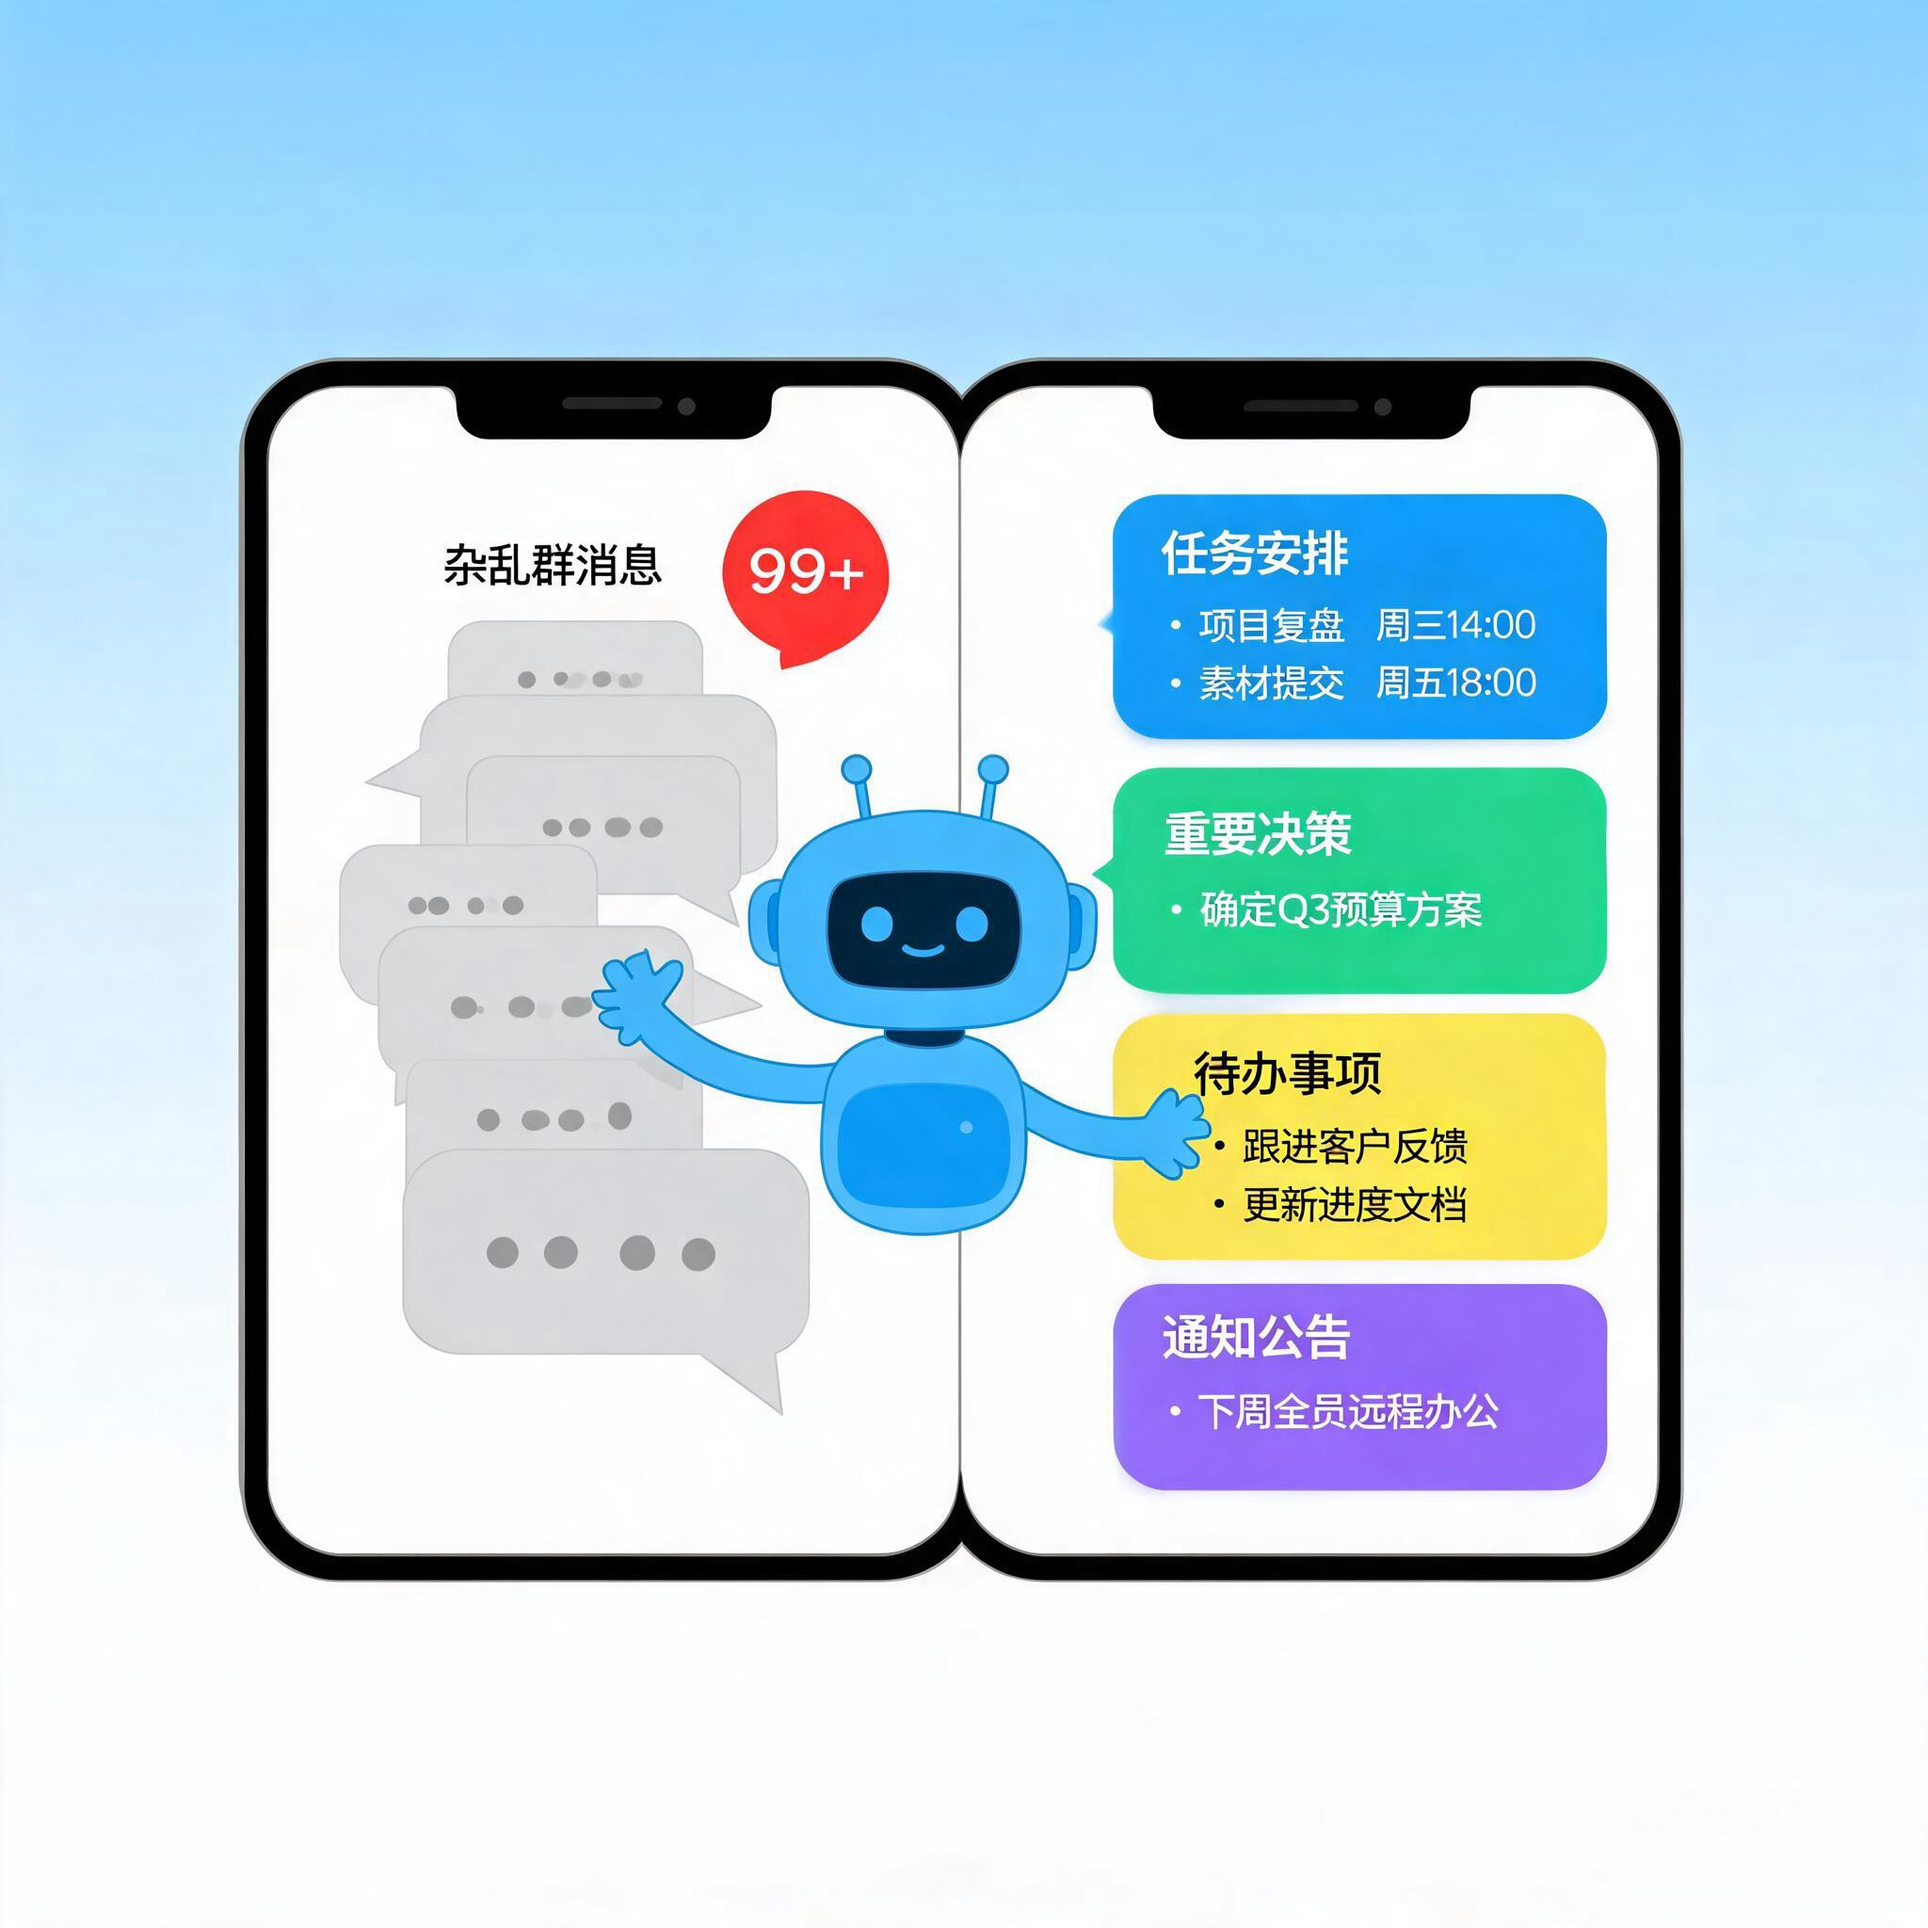
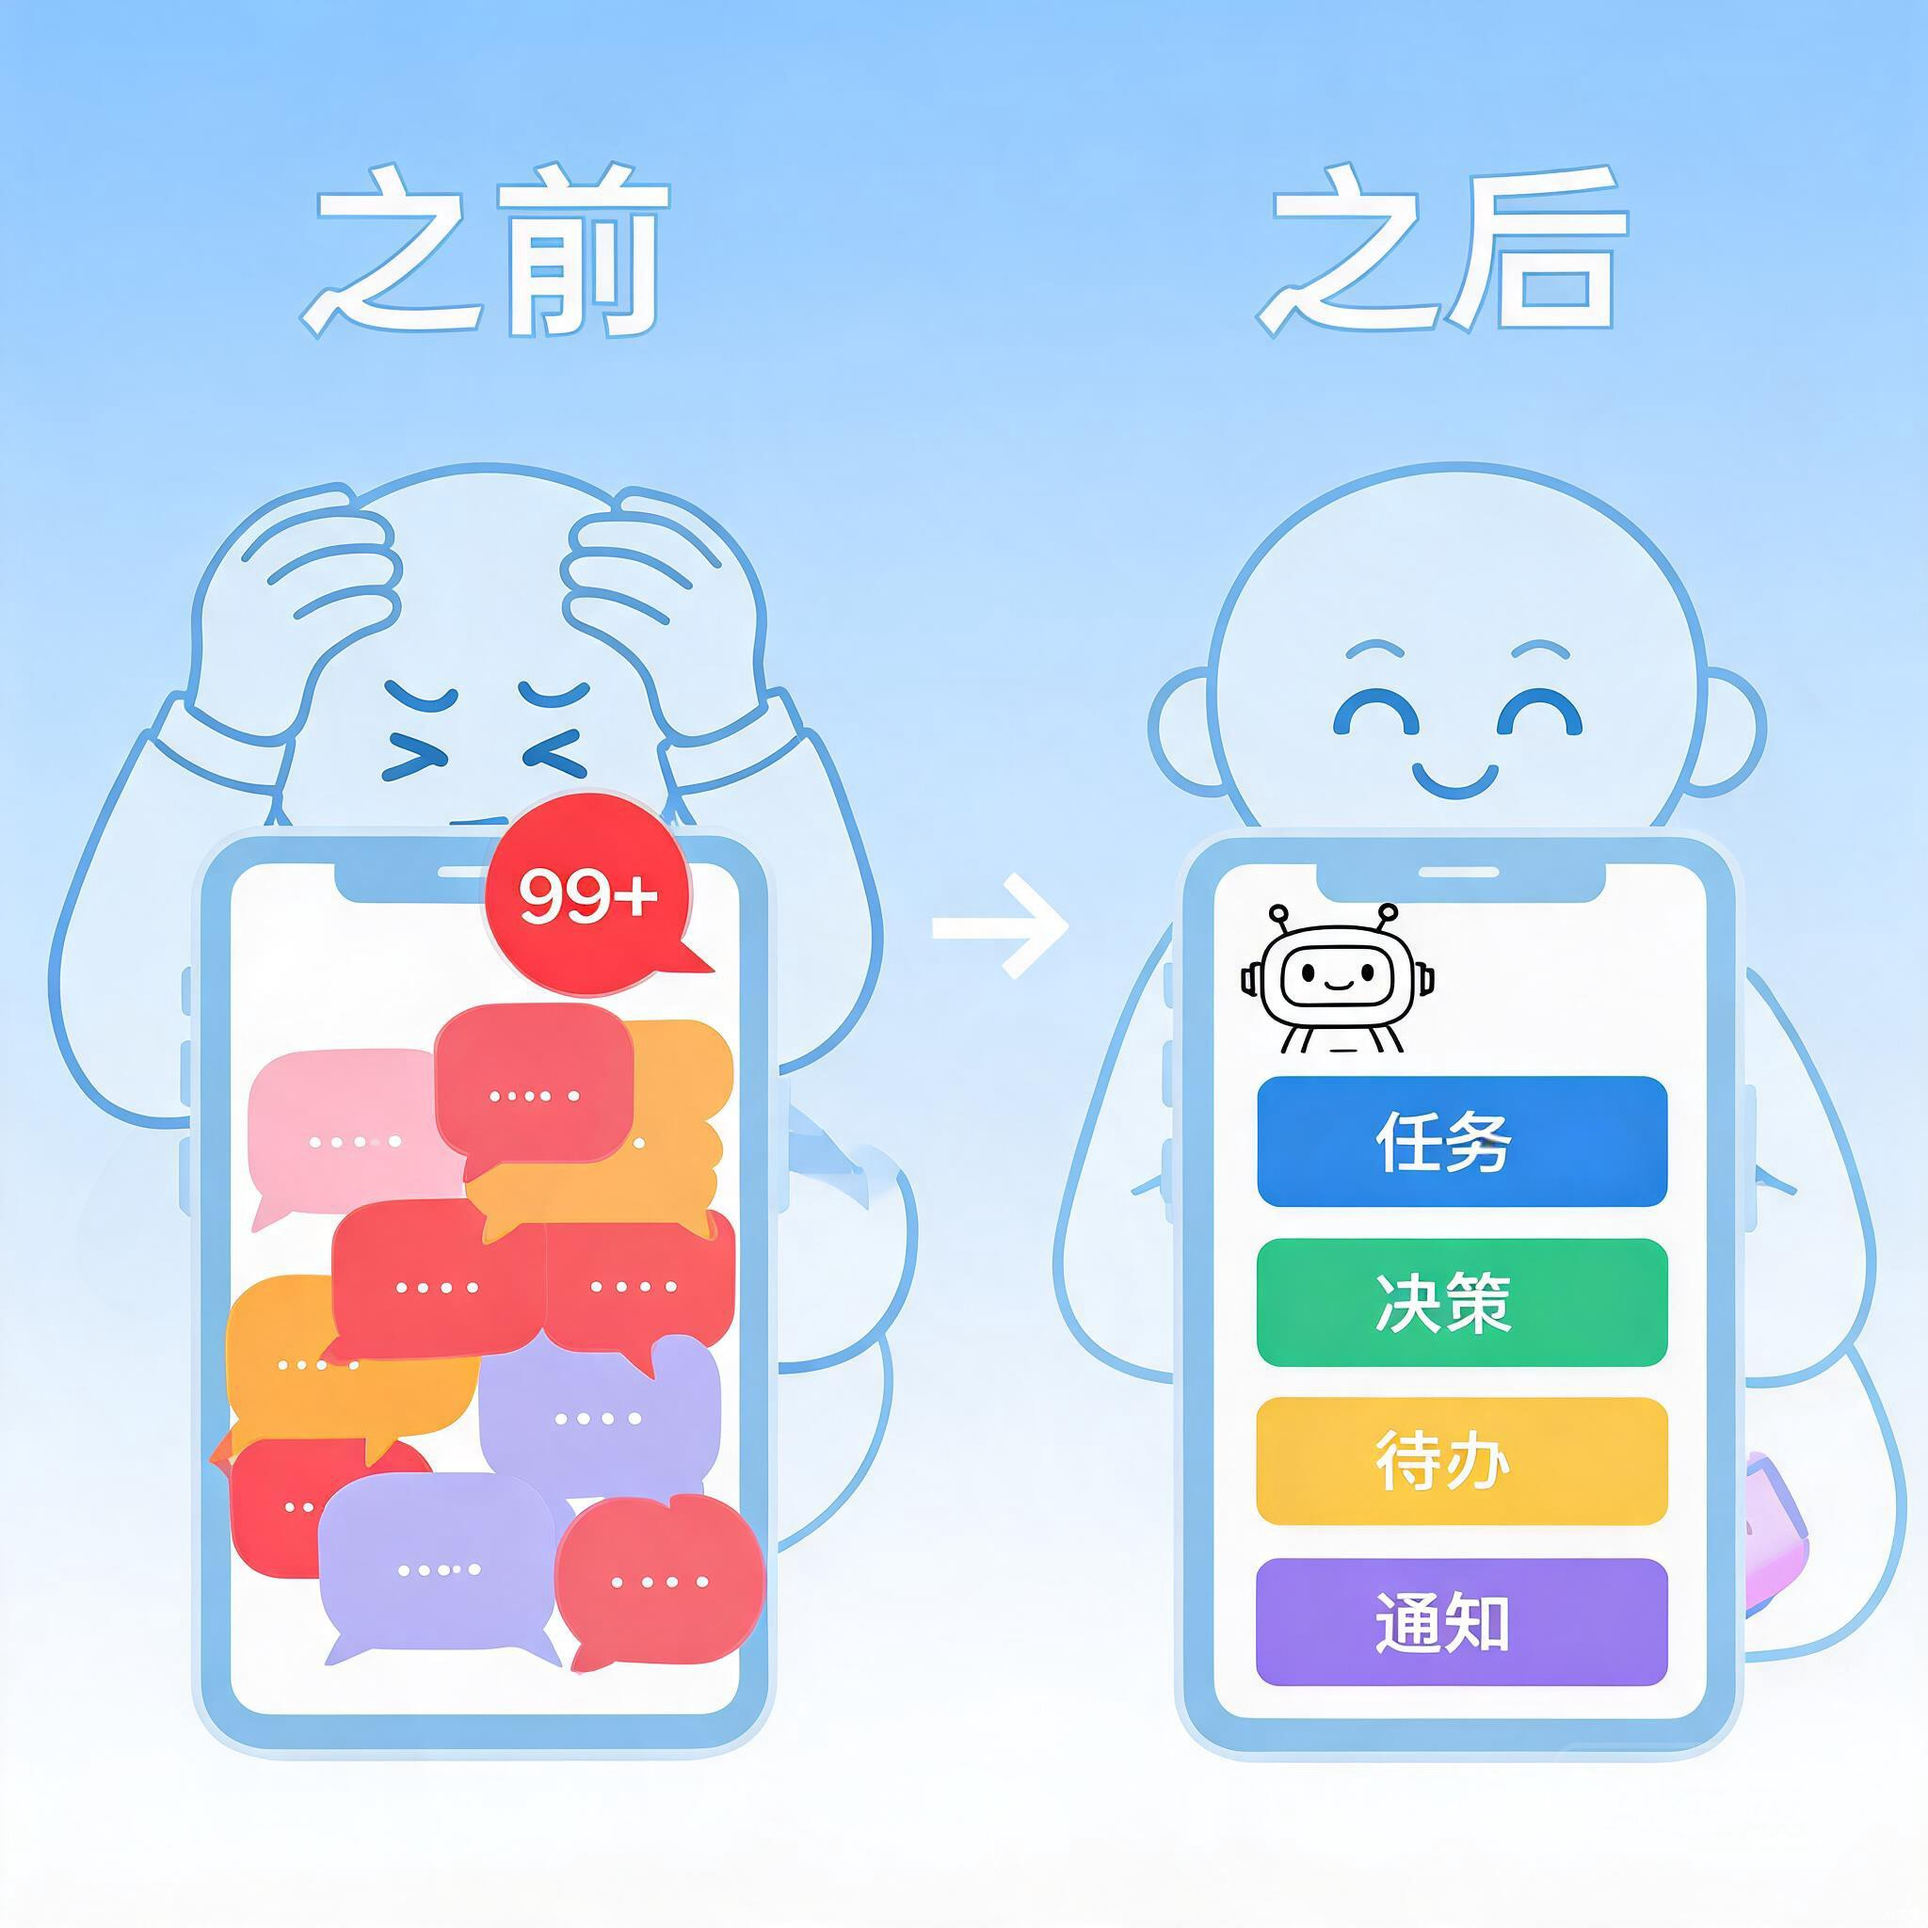
重新发布: 每天5分钟搞定工作群99+，AI提取精华不遗漏

diff --git a/_posts/2026-07-31-神技-01.md b/_posts/2026-07-31-神技-01.md
@@ -1,8 +1,8 @@
 ---
+layout: post
 title: "每天5分钟搞定工作群99+，AI提取精华不遗漏"
 date: 2026-07-31
-pillar: "办公神技铺"
-categories: "办公神技铺"
+categories: 办公神技铺
 schedule: "周五"
 ---
 
@@ -41,15 +41,29 @@ schedule: "周五"
 
 | 对比维度 | 手动刷群（传统方式） | AI 自动整理 |
 |---------|-------------------|-----------|
-| 处理 100 条消息时间 | 30-60 分钟 | 3-5 分钟 |
-| 信息遗漏率 | 20-40%（容易跳过） | <5%（全面扫描） |
+| 处理 100 条消息时间 | 30-60 分钟 [待验证] | 3-5 分钟 [待验证] |
+| 信息遗漏率 | 20-40%（容易跳过）[待验证] | <5%（全面扫描）[待验证] |
 | 焦虑程度 | 高（总怕漏看） | 低（结构化呈现） |
 | 信息结构化 | 无，全靠脑子记 | 分类清晰，一目了然 |
 | 可追溯性 | 差，翻聊天记录像大海捞针 | 强，精华报告随时查阅 |
 
-> ⚠ 以上对比数据为 AI 分析推断，建议读者自行验证。[待验证]
+> 注：以上数据为经验估算值，实际效果因个人习惯、消息密度和群聊性质而异，建议读者自行对比验证。标记 [待验证] 的数据为 AI 分析推断，建议读者自行验证。
 
 差距是不是很明显？接下来 4 步，小白也能学会用 AI 自动整理群聊精华。
+
+---
+
+## 为什么 AI 能做好这件事
+
+你可能会好奇：AI 凭什么能从一堆杂乱的聊天记录里准确捞出关键信息？
+
+核心在于大语言模型的**语义理解能力**。传统关键词搜索只能匹配固定词汇，而 AI 能真正「读懂」每句话的含义。
+
+它通过命名实体识别（NER，一种从文本中自动识别人名、地名、机构名等关键实体的技术）自动分辨「张三布置了任务」「李四做了决策」「王五发了通知」，再通过结构化 Prompt 将这些信息按类别归档。
+
+加上现代模型动辄支持几十万 token 的长上下文，几百条群聊消息完全可以一次性「吞」进去处理。
+
+> 💡 简单说，AI 做的就是人脑想做但没精力做的事：逐条阅读、理解含义、分类整理。
 
 ---
 
@@ -68,6 +82,8 @@ schedule: "周五"
 **方法二：第三方工具批量导出（适合消息量大）**
 
 如果消息太多手动复制不现实，可以使用第三方工具（如「楼月微信聊天记录导出软件」）将聊天记录导出为 TXT 文件。具体操作：电脑登录微信 → 运行导出软件 → 选择群聊 → 导出为 TXT 格式。
+
+> ⚠ **安全提示**：第三方导出工具需要访问本地微信数据，请从官方渠道下载并评估隐私风险；部分功能可能需要 Root/越狱，对普通用户门槛较高。敏感群聊建议优先使用手动复制，或企业微信原生导出功能。
 
 > 💡 小贴士：如果是企业微信，可以直接在「消息管理器」中选择「导出聊天记录」，原生支持，操作更方便。
 
@@ -90,12 +106,14 @@ schedule: "周五"
 
 不是所有 AI 工具都适合做这件事，选对工具事半功倍：
 
-| AI 工具 | 适合场景 | 推荐指数 |
+| AI 工具 | 适合场景 | 编辑推荐度 |
 |--------|---------|---------|
 | Kimi | 长文本处理强，支持上传文件 | ⭐⭐⭐⭐⭐ |
 | 豆包 | 速度快，中文理解好 | ⭐⭐⭐⭐ |
 | 通义千问 | 支持长上下文，稳定可靠 | ⭐⭐⭐⭐ |
 | 文心一言 | 百度生态，企业用户友好 | ⭐⭐⭐ |
+
+> 注：⭐ 为编辑主观推荐，综合考虑长文本处理能力、中文理解准确度和易用性，仅供参考。
 
 **首选推荐：Kimi**。因为它支持直接上传 TXT 文件，而且长文本理解能力强，几百条消息完全不在话下。
 
@@ -128,7 +146,7 @@ schedule: "周五"
 1. 只提取事实信息，不要添加主观判断
 2. 如果某个类别没有内容，就写「无」
 3. 最后用一句话总结今天群聊的核心要点
-4. 总字数控制在500字以内
+4. 总字数控制在 500 字以内
 
 群聊记录如下：
 ---
@@ -208,7 +226,7 @@ schedule: "周五"
 
 ## 行动号召
 
-现在就打开微信PC端，随便找一个工作群，导出今天的聊天记录，照着上面的步骤试试。
+现在就打开微信 PC 端，随便找一个工作群，导出今天的聊天记录，照着上面的步骤试试。
 
 5 分钟，你就能体验到「从信息焦虑到信息掌控」的爽感。
 
